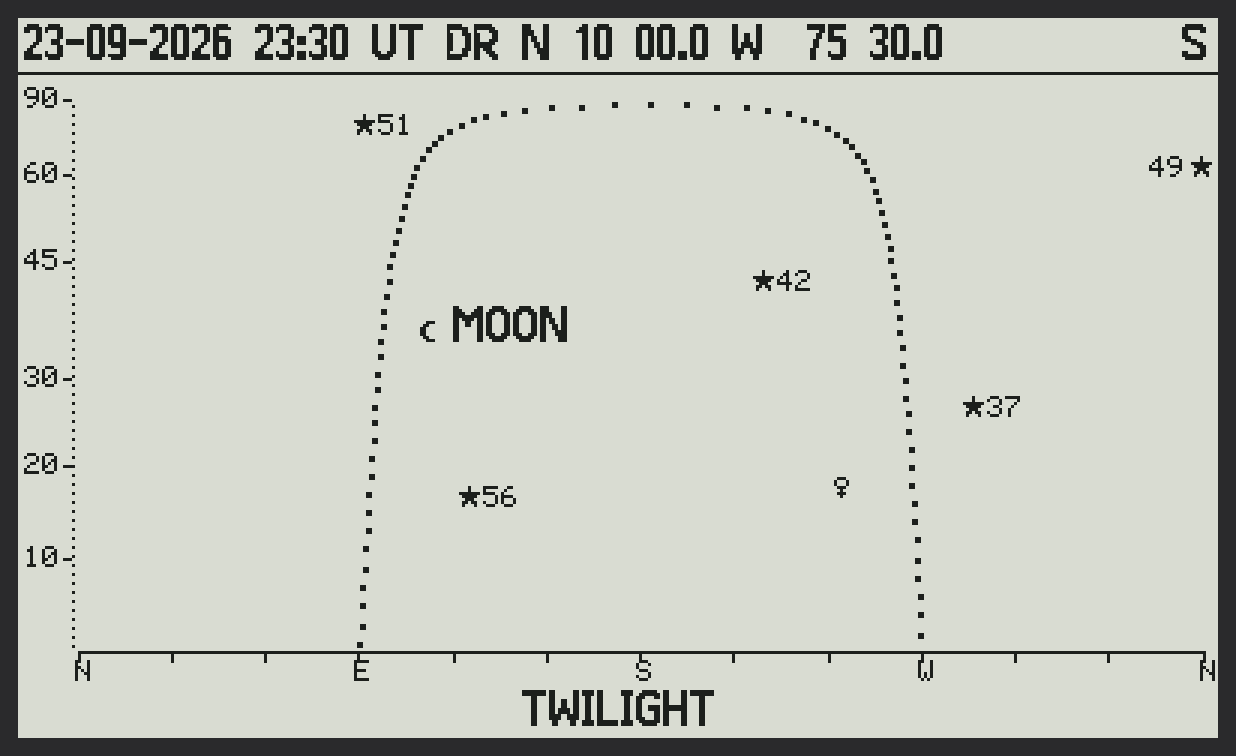
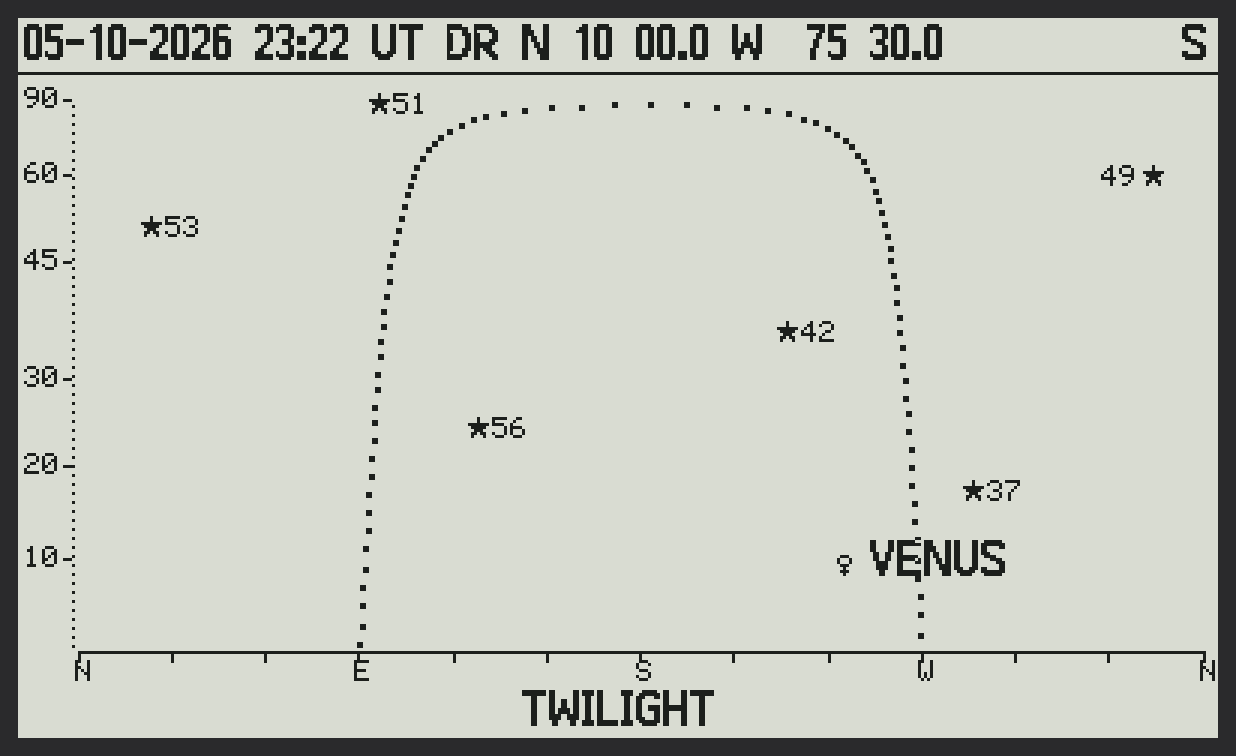
Release screens: the NAVFULL views and MOON47 at 5 Oct 2026 23:22 UT
release_shots.py takes the clock's UT (or --date/--ut) and also writes docs/release/C47_MOON47.png
(python/moon47.py) at the same moment.

diff --git a/tools/generators/release_shots.py b/tools/generators/release_shots.py
@@ -1,11 +1,12 @@
 #!/usr/bin/env python3
 """release_shots.py - the NAVFULL views for the release notes, in the LCD look of docs/MOON47.png
 (c47view.render_rgb: grey-green glass, dark bezel, 3 x): docs/release/C47_<view>.png, 1236 x 756.
-Same runs as nav_shots.py (build/NAVFULL.txt in the C47 simulator, 23 Sep 2026 23:30 UT, 10 N 75 30 W).
+Same runs as nav_shots.py (build/NAVFULL.txt in the C47 simulator, DR 10 N 75 30 W), at the clock's UT
+(or --date/--ut); also docs/release/C47_MOON47.png (python/moon47.py) at the same moment.
 
-  python3 tools/generators/release_shots.py
+  python3 tools/generators/release_shots.py [--date YYYY-MM-DD --ut HH:MM]
 """
-import os, sys
+import argparse, datetime, os, subprocess, sys
 
 HERE = os.path.dirname(os.path.abspath(__file__))
 ROOT = os.path.dirname(os.path.dirname(HERE))
@@ -18,16 +19,28 @@ NAMES = {'ALMF_preview': 'ALMANAC', 'HALMH_preview': 'SPLIT', 'HORZ_axes_night':
 
 
 def main():
+    ap = argparse.ArgumentParser()
+    ap.add_argument('--date', help='YYYY-MM-DD UT (default: the clock)')
+    ap.add_argument('--ut', help='HH:MM UT (default: the clock)')
+    a = ap.parse_args()
+    now = datetime.datetime.now(datetime.timezone.utc)
+    date = a.date or now.strftime('%Y-%m-%d')
+    ut = a.ut or now.strftime('%H:%M')
+    y, m, d = date.split('-'); hh, mm = ut.split(':')
+    case = ('%s.%s%s' % (y, m, d), '%s.%s' % (hh, mm)) + ns.VIEW_CASE[2:]
+    print('%s %s UT' % (date, ut))
     os.makedirs(OUT, exist_ok=True)
     for name, key in ns.VIEWS.items():
         if key == 74:                                  # SKY: the chart, then the first name next to its body
-            fr = ns.run(ns.VIEW_CASE, [key], maxpauses=3, keyskip=True)[2]
+            fr = ns.run(case, [key], maxpauses=3, keyskip=True)[2]
         else:
-            fr = ns.run(ns.VIEW_CASE, [key, 85, 82])[1]
+            fr = ns.run(case, [key, 85, 82])[1]
         w, h, rgb = c47view.render_rgb(fr, scale=3)
         fn = os.path.join(OUT, 'C47_%s.png' % NAMES[name])
         c47view.write_png(fn, w, h, rgb)
         print(os.path.relpath(fn, ROOT))
+    subprocess.run([sys.executable, os.path.join(ROOT, 'python', 'moon47.py'), '--date', date, '--ut', ut,
+                    '--png', os.path.join(OUT, 'C47_MOON47.png')], check=True)
 
 
 if __name__ == '__main__':
